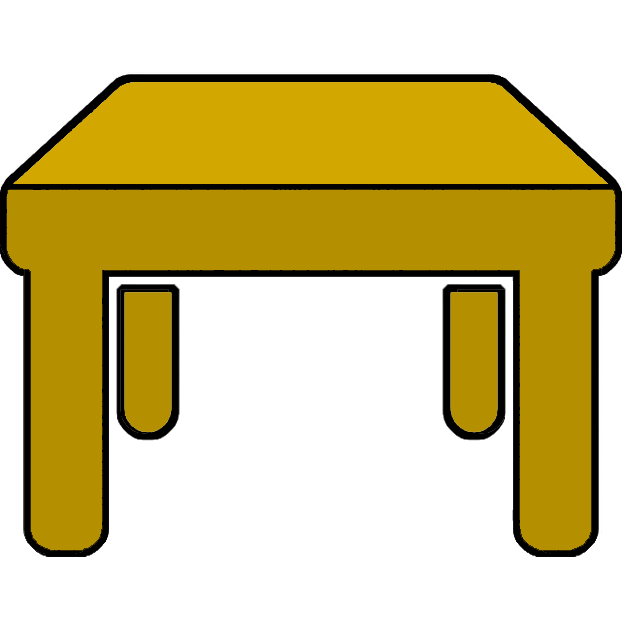
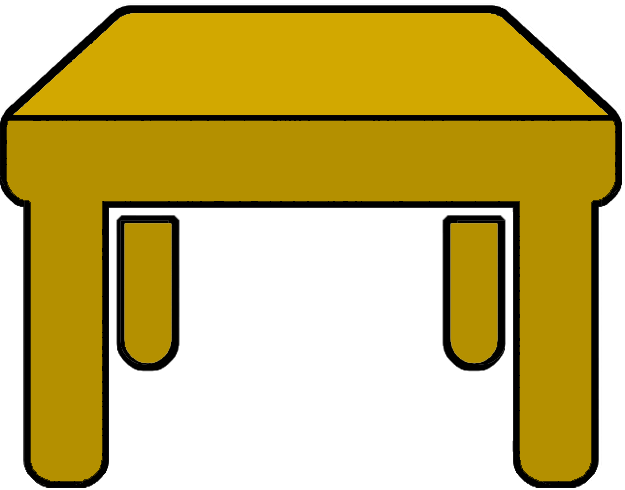
Added table animations and better slide transition animations

diff --git a/script.js b/script.js
@@ -1,10 +1,9 @@
 // Go to the top of the page when document loads
 $(document).ready(() => {
     $(this).scrollTop(0);
-})
+});
     
 
-const gamePos = $('#game').offset().top;
 let pastScroll = $(document).scrollTop();
 let currentPos = 0;
 let canScroll = true;
@@ -13,19 +12,46 @@ const slides = [
         name: "#intro"
     },
     {
-        name: "#game"
+        name: "#table-of-content"
     }
 ];
 
+// Populate "slides" with position of objects
 slides.forEach(item => item.pos = $(item.name).offset().top);
+    
 
 const scrollToSlide = (slide) => {
-    console.log("trigger")
-    $("html, body").animate({scrollTop: slide.pos}, 1000);
-    setTimeout(() => canScroll = true, 1100);
+    
+    //Can't scroll during animation...
+    $('body').css('overflow', 'hidden');
+
+    if(currentPos != 1 ) {
+        $('.big-table').removeClass("big-table");
+        $('.table').addClass("small-table");
+        setTimeout(() => {
+            $('.table').addClass( "hover-active" );
+            $('#table-tooltip').css('display', 'inline');
+        }, 1000);
+    }
+    else {
+        $('.hover-active').removeClass( "hover-active" );
+        $('#table-tooltip').css('display', 'none');
+    }
+    $("html, body").animate({scrollTop: slide.pos}, 1000, () => {
+        if(currentPos == 1){
+            $('.table').addClass("big-table");
+            $('.small-table').removeClass("small-table");
+        }
+        setTimeout(() => {
+            canScroll = true;
+            //... Can scroll again once animation is done
+            $('body').css('overflow', 'visible');
+        }, 1100);
+    });
 };
 
-console.log(currentPos);
+
+
 
 window.addEventListener('scroll', () => {
     let currentScroll = $(document).scrollTop();
@@ -34,7 +60,6 @@ window.addEventListener('scroll', () => {
     if(canScroll) {
         canScroll = false;
 
-        console.log($('.indicator')[currentPos]);
         $('.indicator').removeClass( "current" );
 
         // If scroll down

diff --git a/style.css b/style.css
@@ -5,7 +5,7 @@
 }
 
 body {
-    background: linear-gradient(rgb(0, 15, 66), rgb(83, 103, 140) , rgb(140, 120, 83), rgb(161, 95, 33));
+    background: linear-gradient(rgb(0, 15, 66), rgb(83, 103, 140) , rgb(140, 120, 83), rgb(184, 115, 51));
     width: 100%;
     -ms-overflow-style: none;
 }
@@ -48,9 +48,9 @@ body::-webkit-scrollbar {
     padding: 20px;
 }
 
-/*First Game*/
+/*Table of content*/
 
-#game {
+#table-of-content {
     height: 100vh;
 }
 
@@ -68,20 +68,70 @@ header {
     align-items: center;
 }
 
-#table {
+.table {
     width: 8%;
     position: absolute;
     left: 20px;
-    bottom: 0;
+    bottom: 20px;
     opacity: 0.4;
+}
+
+.big-table {
+    width: 50%;
+    opacity: 1;
+    bottom: 25px;
+    left: 25%;
+    animation: enlarge-table 1.5s;
+}
+
+@keyframes enlarge-table {
+    from {
+        width: 8%;
+        opacity: 0.4;
+        bottom: 20px;
+        left: 20px;
+    }
+    to {
+        width: 50%;
+        opacity: 1;
+        bottom: 25px;
+        left: 25%;
+    }
+}
+
+.small-table {
+    width: 8%;
+    animation: shrink-table 1s;
+}
+
+@keyframes shrink-table {
+    from {
+        width: 50%;
+        opacity: 1;
+        bottom: 25px;
+        left: 25%;
+    }
+    to {
+        width: 8%;
+        opacity: 0.4;
+        bottom: 20px;
+        left: 20px;
+    }
+}
+
+.hover-active:hover {
     cursor: pointer;
+    opacity: 1;
+    width: 8.5%;
+    transition: ease-in-out 0.2s;
 }
 
 #table-tooltip {
     visibility: hidden;
     opacity: 0;
     position: absolute;
-    top: -100px;
+    font-size: 12px;
+    top: -110px;
     left: calc(20px + 8%);
     color: black;
     background-color: white;
@@ -91,13 +141,9 @@ header {
     border-radius: 5px 5px 5px 0;
 }
 
-#table:hover {
-    opacity: 1;
-    width: 8.5%;
-    transition: ease-in-out 0.2s;
-}
 
-#table:hover + #table-tooltip {
+.table:hover + #table-tooltip {
+    font-size: 16px;
     top: -125px;
     visibility: visible;
     opacity: 1;

diff --git a/index.html b/index.html
@@ -16,14 +16,14 @@
                 </p>
             </div>
         </div>
-        <!--for testing purposes-->
         <div class="empty"></div>
-        <div id="game">
-            game
+        <div id="table-of-content">
+            
         </div>
+        <div class="empty"></div>
         <header id="slide-indicator">
-            <img id="table" src="public/table-repainted.png">
-            <span id="table-tooltip"><b>Table of Content...<br>Badum Tsss</b></span>
+            <img class="table hover-active" src="public/table-repainted.png">
+            <span id="table-tooltip"><b>Table of Content</b><br><span style="font-size: 10px;">Badum Tsss</span></span>
             <div class="indicator current"></div>
             <div class="indicator"></div>
         </header>
